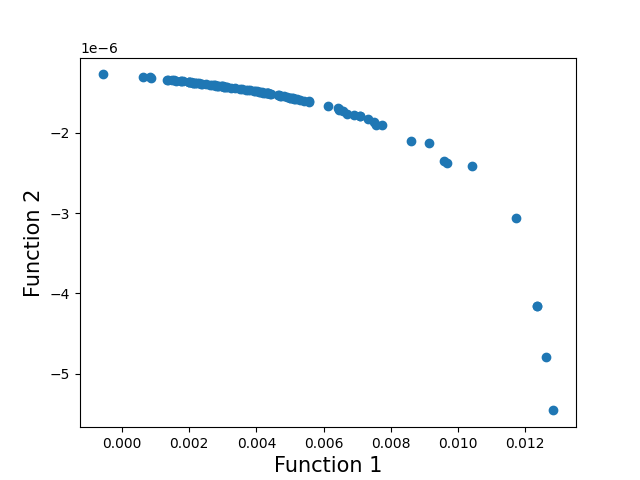
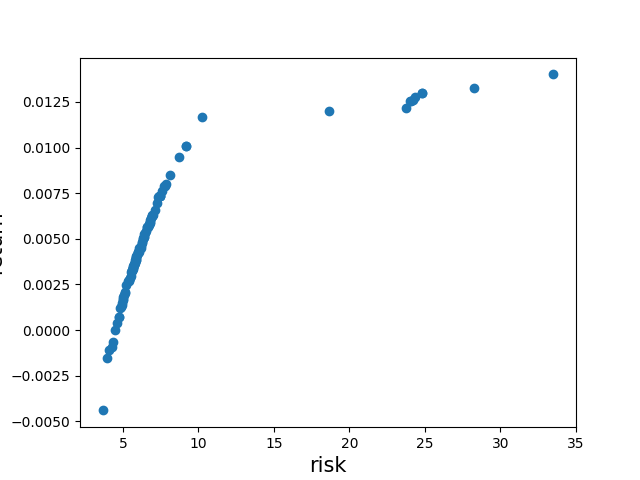
updated

diff --git a/NSGA2.py b/NSGA2.py
@@ -38,6 +38,7 @@ def function1(x):
 
 #Second function to optimize
 def function2(x):
+    x = x/np.mean(x)
     cost = np.sum(buy_in_prices*x)
 
     x = x.reshape(1,x.shape[0])
@@ -46,7 +47,7 @@ def function2(x):
     if abs(cost) < 1e-3:
         print("cost: ", cost, buy_in_prices, x)
 
-    f2 = -value/cost/cost
+    f2 = -value
     # print("f2: ", f2)
     return f2
 
@@ -145,8 +146,8 @@ solution=[min_x+(max_x-min_x)*np.random.rand(num_stocks) for i in range(0,pop_si
 gen_no=0
 while(gen_no<max_gen):
     print("geneartion: ", gen_no)
-    function1_values = [function1(solution[i])for i in range(0,pop_size)]
-    function2_values = [function2(solution[i])for i in range(0,pop_size)]
+    function1_values = [function1(solution[i]/np.sum(solution[i])) for i in range(0,pop_size)]
+    function2_values = [function2(solution[i]/np.sum(solution[i])) for i in range(0,pop_size)]
     non_dominated_sorted_solution = fast_non_dominated_sort(function1_values[:],function2_values[:])
     #print("The best front for Generation number ",gen_no, " is")
     #for valuez in non_dominated_sorted_solution[0]:
@@ -187,16 +188,18 @@ while(gen_no<max_gen):
 #Lets plot the final front now
 plt.figure()
 f1_value = [i for i in function1_values]
-f2_value = [j for j in function2_values]
-plt.xlabel('Function 1', fontsize=15)
-plt.ylabel('Function 2', fontsize=15)
-plt.scatter(f1_value, f2_value)
+f2_value = [-j for j in function2_values]
+plt.xlabel('risk', fontsize=15)
+plt.ylabel('return', fontsize=15)
+plt.scatter(f2_value, f1_value)
 plt.savefig("optimized.png")
 
 plt.figure()
-risk = [function2(i) for i in solution]
+risk = [-function2(i) for i in solution]
 true_return = [real_return(i) for i in solution]
 plt.scatter(risk, true_return)
+plt.xlabel("risk")
+plt.ylabel("real return")
 plt.savefig("risk_return.png")
 
 
